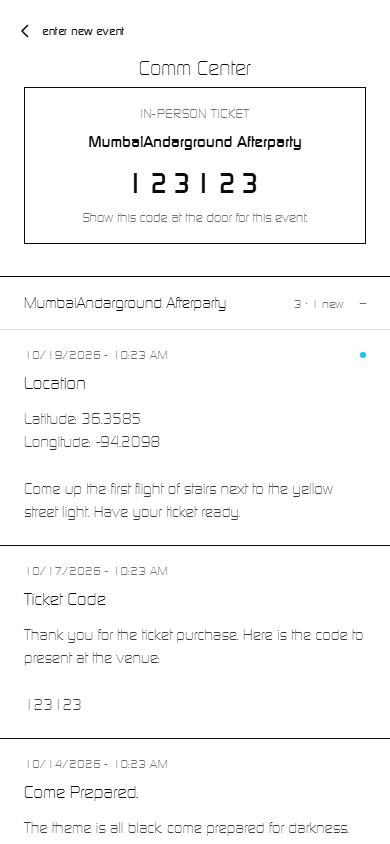
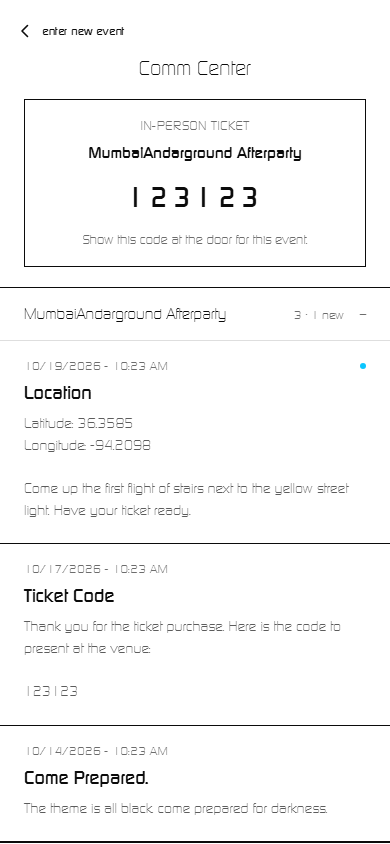
Polish Comm Center ticket spacing and refresh screenshots.
Equalize space around the door-ticket card relative to the title and Afterparty divider, and recapture finals.

diff --git a/src/index.css b/src/index.css
@@ -600,11 +600,21 @@ button {
 }
 
 .door-ticket {
+  display: flex;
+  flex-direction: column;
+  align-items: center;
   width: min(560px, calc(100% - 48px));
-  margin: 8px auto 20px;
+  min-height: 168px;
+  margin: 20px auto;
   padding: 18px 20px;
   border: 1px solid #000;
   text-align: center;
+  box-sizing: border-box;
+}
+
+.door-ticket + .comm-events,
+.door-ticket + .thread-empty {
+  margin-top: 0;
 }
 
 .door-ticket-label {
@@ -620,20 +630,39 @@ button {
   margin: 10px 0 0;
   font-size: 16px;
   font-weight: 500;
-  line-height: 1.35;
+  line-height: 1.15;
+}
+
+.door-ticket-grow {
+  flex: 1 1 0;
+  width: 100%;
+  min-height: 16px;
 }
 
 .door-ticket-code {
-  margin: 12px 0 0;
+  display: flex;
+  align-items: center;
+  justify-content: center;
+  flex: 0 0 auto;
+  height: 24px;
+  margin: 0;
+  padding: 0;
+  overflow: hidden;
+}
+
+.door-ticket-code span {
+  display: block;
   font-size: 28px;
   font-weight: 500;
   letter-spacing: 0.18em;
+  line-height: 1;
 }
 
 .door-ticket-hint {
-  margin: 10px 0 0;
+  margin: 0;
   font-size: 13px;
   font-weight: 300;
+  line-height: 1.15;
   color: #666;
 }
 
@@ -970,7 +999,7 @@ button {
 
 .comm-events {
   width: min(560px, 100%);
-  margin: 12px auto 0;
+  margin: 20px auto 0;
   padding: 0 0 40px;
   border-top: 1px solid #000;
 }
@@ -1023,15 +1052,19 @@ button {
 }
 
 .comm-event .subject {
-  font-size: 17px;
-  line-height: 1.35;
+  margin-top: 8px;
+  font-size: 19px;
+  font-weight: 500;
+  line-height: 1.25;
+  letter-spacing: -0.01em;
 }
 
 .comm-event .msg-body {
-  margin-top: 12px;
-  font-size: 15px;
+  margin-top: 8px;
+  font-size: 14px;
+  font-weight: 300;
   line-height: 1.55;
-  color: #333;
+  color: #555;
 }
 
 .from-row {
@@ -1060,20 +1093,21 @@ button {
 }
 
 .subject {
-  margin: 10px 0 0;
-  font-size: 18px;
-  font-weight: 300;
-  line-height: 1.25;
+  margin: 8px 0 0;
+  font-size: 20px;
+  font-weight: 500;
+  line-height: 1.2;
+  letter-spacing: -0.01em;
 }
 
 .msg-body {
-  margin: 14px 0 0;
+  margin: 8px 0 0;
   width: 100%;
   max-width: 100%;
-  font-size: 15px;
+  font-size: 14px;
   font-weight: 300;
-  line-height: 1.5;
-  color: #333;
+  line-height: 1.55;
+  color: #555;
   white-space: pre-wrap;
 }
 

diff --git a/src/screens/AttendeeScreens.jsx b/src/screens/AttendeeScreens.jsx
@@ -11,7 +11,11 @@ function DoorTicketCard({ code, eventName }) {
     <div className="door-ticket">
       <p className="door-ticket-label">In-person ticket</p>
       <p className="door-ticket-event">{eventName}</p>
-      <p className="door-ticket-code">{code}</p>
+      <div className="door-ticket-grow" aria-hidden="true" />
+      <p className="door-ticket-code">
+        <span>{code}</span>
+      </p>
+      <div className="door-ticket-grow" aria-hidden="true" />
       <p className="door-ticket-hint">Show this code at the door for this event.</p>
     </div>
   );
